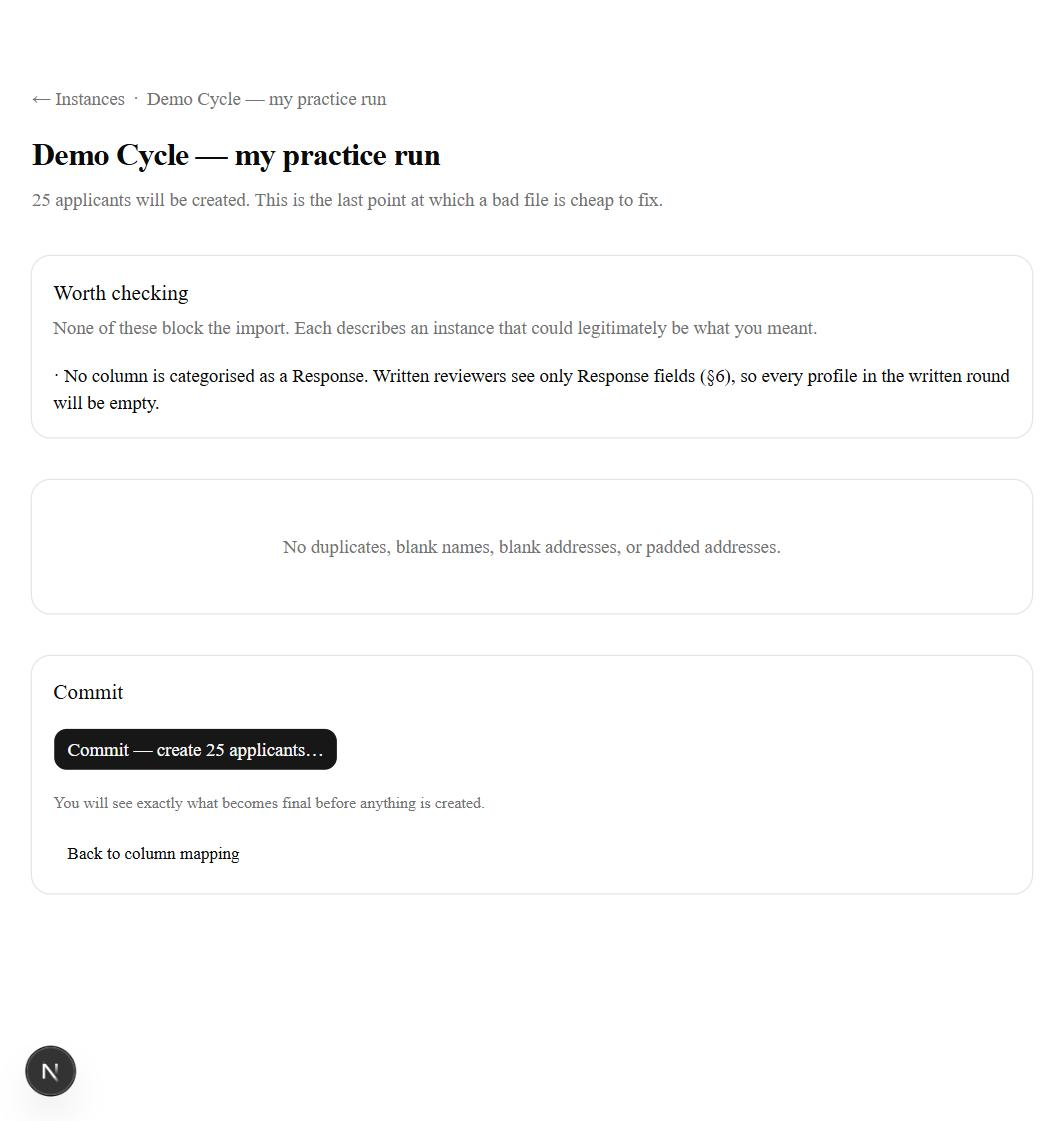
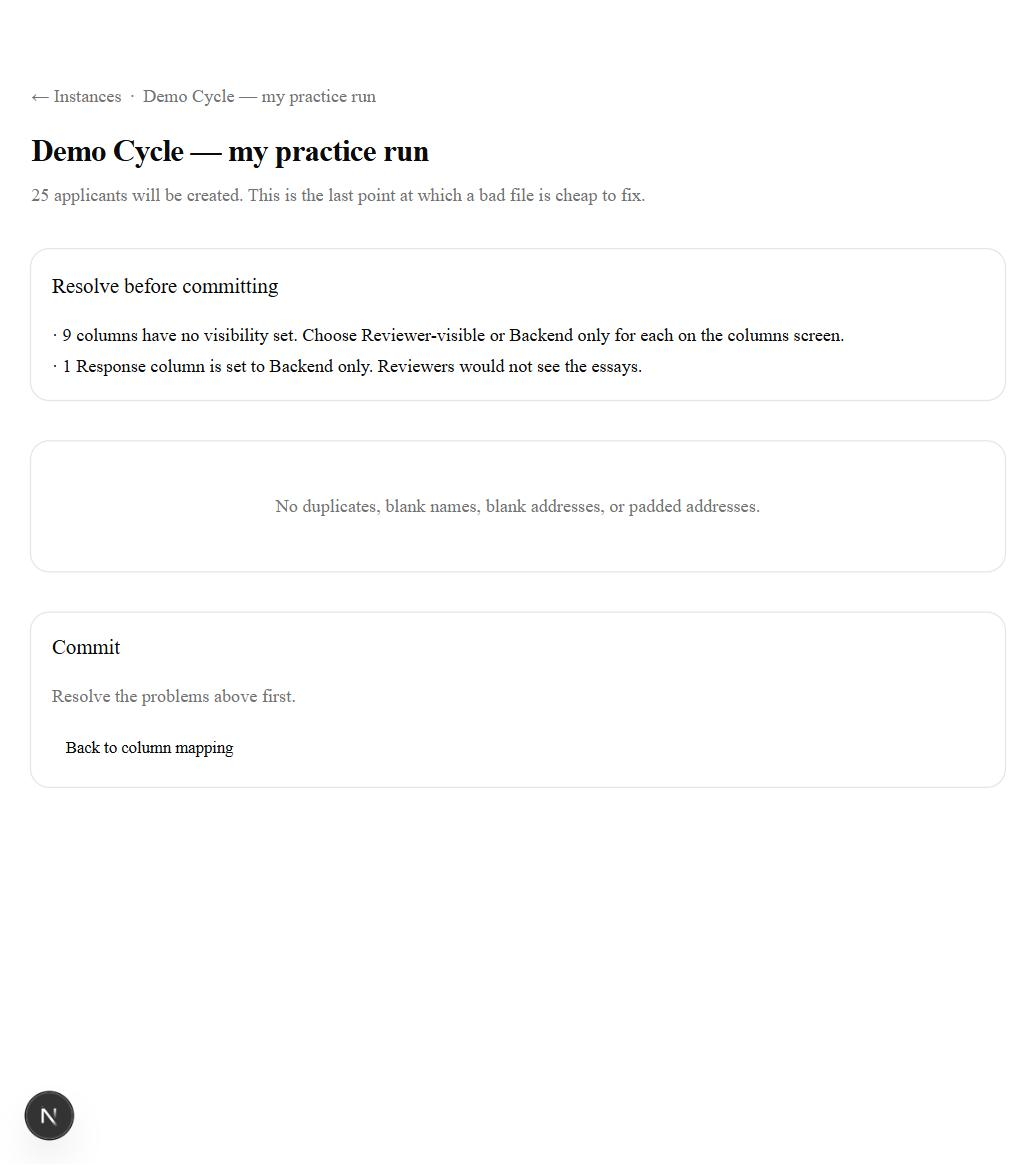
Decision 108: screenshots, and three things photographing them found
Captured against a fresh import of demo-cycle.csv named to match the guide's
narrative, and against a rebuilt seed_rev107 whose deterministic seed reproduced
the original reviewer cohort exactly - same applicant, same interviewers, same
scores as r4/r6/r8. Both throwaways deleted afterwards; the five real instances
are as Gate 0 found them.

Replaced: 02-mapping (banner counting unanswered columns, Ethnicity locked to
Backend only with the section 6 note), 03-preview (both new blockers), and
04-commit-confirm (the corrected "whether reviewers can see it" clause).

New: 02b-column-visibility, showing decided rows next to one reading "not set" -
the top-of-page frame cannot show a live visibility control, and the new "Who
sees each column" section needs one. And 02c-visibility-outstanding, the
post-commit notice, which had to be manufactured on seed_walk0907 because the
backfill found zero split rows, so no real instance produces it. That instance
was reverted immediately after the shot.

r5 replaced: its original showed the interview notes running directly into "Your
vote", a layout that no longer exists now the essays sit between them.

r7 deliberately NOT replaced. Its frame is the top of the profile - interviews
and attributed written reviews - and demographics were always below its fold, so
decision 108 does not falsify it. Swapping it would have added a third
odd-sized file for nothing. The guide's second-round PROSE was wrong and is
[…]

diff --git a/app/instances/[id]/mapping/mapping-controls.tsx b/app/instances/[id]/mapping/mapping-controls.tsx
@@ -141,6 +141,7 @@ function VisibilityChoice({
   value,
   disabled,
   lockedNote,
+  forcesBackendOnly,
   onChange,
 }: {
   value: boolean | null;
@@ -148,6 +149,13 @@ function VisibilityChoice({
   /// Set when the choice is not the admin's to make — a demographic column, or
   /// an excluded one. Renders the state read-only with the reason.
   lockedNote: string | null;
+  /// True only where the lock actually overrides the stored value, which is the
+  /// DEMOGRAPHIC case: §6 hides it whatever is stored, so showing Backend only
+  /// is the truth. An EXCLUDED column is different — exclusion hides it without
+  /// changing the flag, so it keeps displaying the choice that will take effect
+  /// again the moment it is re-included. Showing Backend only there would tell
+  /// the admin the opposite of what re-including does.
+  forcesBackendOnly: boolean;
   onChange: (next: boolean) => void;
 }) {
   return (
@@ -156,8 +164,8 @@ function VisibilityChoice({
         <input
           type="checkbox"
           role="radio"
-          aria-checked={value === true}
-          checked={value === true}
+          aria-checked={value === true && !forcesBackendOnly}
+          checked={value === true && !forcesBackendOnly}
           disabled={disabled || lockedNote !== null}
           onChange={() => onChange(true)}
         />
@@ -167,8 +175,8 @@ function VisibilityChoice({
         <input
           type="checkbox"
           role="radio"
-          aria-checked={value === false || lockedNote !== null}
-          checked={value === false || lockedNote !== null}
+          aria-checked={value === false || forcesBackendOnly}
+          checked={value === false || forcesBackendOnly}
           disabled={disabled || lockedNote !== null}
           onChange={() => onChange(false)}
         />
@@ -295,6 +303,7 @@ export function GroupPanel({
           value={group.isReviewerVisible}
           disabled={pending}
           lockedNote={visibilityLock(group.category, group.isIncluded)}
+          forcesBackendOnly={group.category === FieldCategory.DEMOGRAPHIC}
           onChange={(next) =>
             run(() => setGroupRoundSettings(instanceId, group.id, { isReviewerVisible: next }))
           }
@@ -314,7 +323,7 @@ export function GroupPanel({
           edits left is better read as settled than as broken. */}
       {frozen ? (
         <p className="text-muted-foreground mt-4 text-xs">
-          Grouping and category are {FROZEN_NOTE}. Inclusion and the round toggles above are not.
+          Grouping and category are {FROZEN_NOTE}. Inclusion and the visibility choice above are not.
         </p>
       ) : (
       <div className="mt-4 flex flex-wrap items-center gap-2">
@@ -613,6 +622,7 @@ export function ColumnControls({
             value={column.isReviewerVisible}
             disabled={pending}
             lockedNote={visibilityLock(column.effectiveCategory, column.effectiveIncluded)}
+            forcesBackendOnly={column.effectiveCategory === FieldCategory.DEMOGRAPHIC}
             onChange={(next) =>
               run(() => setFieldRoundSettings(instanceId, column.id, { isReviewerVisible: next }))
             }

diff --git a/app/instances/[id]/mapping/page.tsx b/app/instances/[id]/mapping/page.tsx
@@ -205,8 +205,10 @@ export default async function MappingPage({ params }: { params: Promise<{ id: st
           </CardHeader>
           <CardContent>
             <p className="text-sm">
-              These columns are hidden from every reviewer until you choose Reviewer-visible or
-              Backend only for them. Nothing else is blocked.
+              {unchosenCount === 1
+                ? "This column is hidden from every reviewer until you choose Reviewer-visible or Backend only for it."
+                : "These columns are hidden from every reviewer until you choose Reviewer-visible or Backend only for them."}{" "}
+              Nothing else is blocked.
             </p>
           </CardContent>
         </Card>
@@ -245,7 +247,7 @@ export default async function MappingPage({ params }: { params: Promise<{ id: st
               Category, inclusion and visibility are set here and apply to every member, so a group
               cannot end up half hidden and half visible.
               {committed
-                ? " Category and grouping are fixed now that the import has committed; inclusion and the round toggles are not."
+                ? " Category and grouping are fixed now that the import has committed; inclusion and the visibility choice are not."
                 : null}
             </CardDescription>
           </CardHeader>
@@ -268,7 +270,7 @@ export default async function MappingPage({ params }: { params: Promise<{ id: st
           <CardTitle>Columns</CardTitle>
           <CardDescription>
             {committed
-              ? "Include and the per-round toggles decide what reviewers see, and stay editable for the life of the cycle. Display name, designation, grouping and category are fixed — each of them decides what the imported data means."
+              ? "Include and the visibility choice decide what reviewers see, and stay editable for the life of the cycle. Display name, designation, grouping and category are fixed — each of them decides what the imported data means."
               : "Every column starts as Other and included. Categories are never guessed from header text."}
           </CardDescription>
         </CardHeader>

diff --git a/ADMIN_GUIDE.md b/ADMIN_GUIDE.md
@@ -148,9 +148,19 @@ is either an empty round or a leak.
 Work down the table and answer for each column. A column you have not answered
 shows **not set** in amber, and the banner at the top counts them.
 
+![Columns with visibility set, and one still unanswered](docs/img/02b-column-visibility.jpg)
+
 > **You cannot commit until every column has an answer.** This is a hard stop,
 > not a warning. Demographic columns and excluded columns are not counted —
 > their answer is already decided for them.
+
+The same list appears on a cycle that has **already** committed, if a column
+somehow ends up without an answer. Nothing is blocked at that point — the
+applicants exist and the cycle runs — but those columns stay hidden from every
+reviewer until you decide, so the screen says so rather than leaving you to
+notice.
+
+![A committed cycle with one column still unanswered](docs/img/02c-visibility-outstanding.jpg)
 
 What to tick, in practice: **the essays Reviewer-visible**, the administrative
 columns (timestamps, network ID, tags) **Backend only**. The judgement calls are
